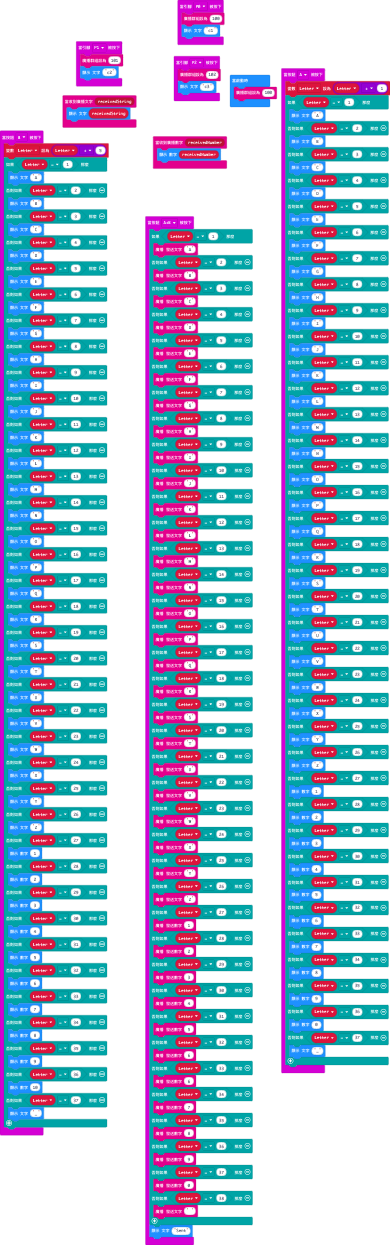
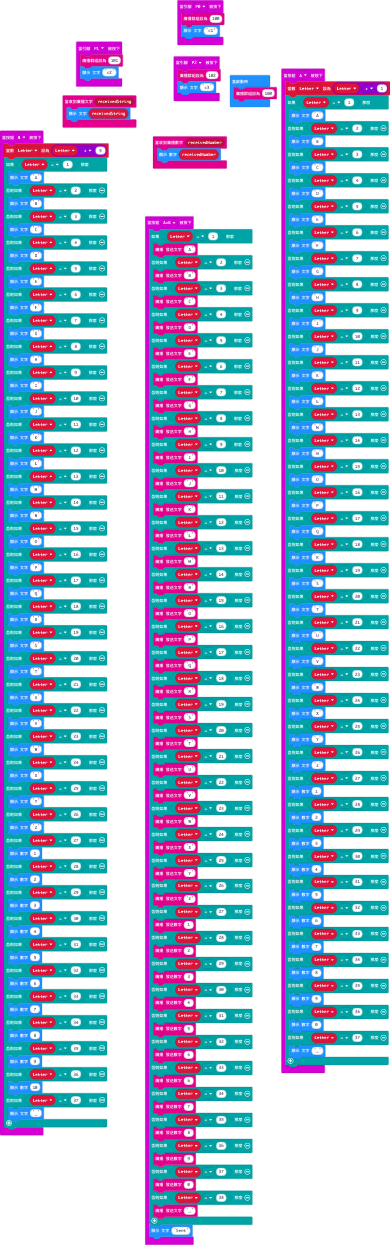
Fixed space bar won't work

diff --git a/main.ts b/main.ts
@@ -163,7 +163,7 @@ input.onButtonPressed(Button.AB, function () {
     } else if (Letter == 37) {
         radio.sendNumber(0)
     } else if (Letter == 38) {
-        radio.sendString(" ")
+        radio.sendString("_")
     }
     basic.showString("Sent")
 })
